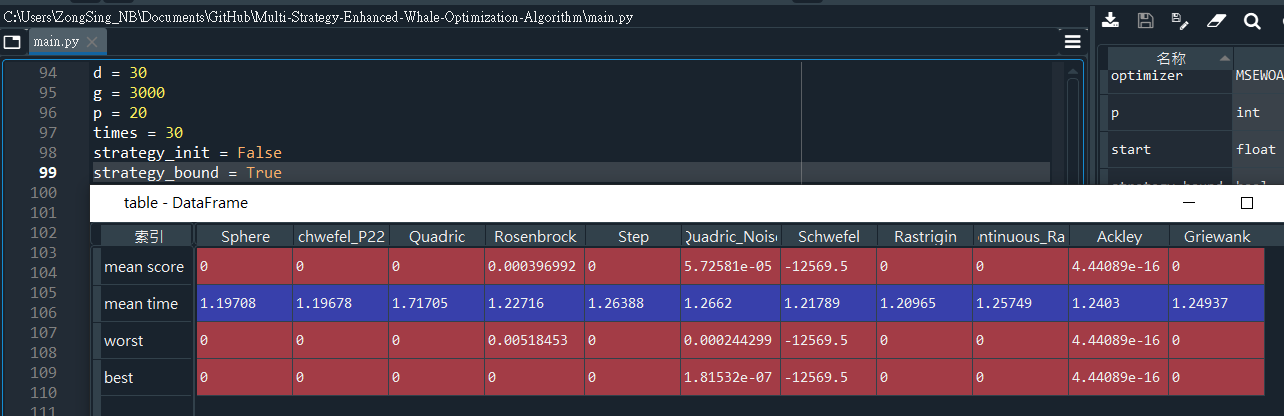
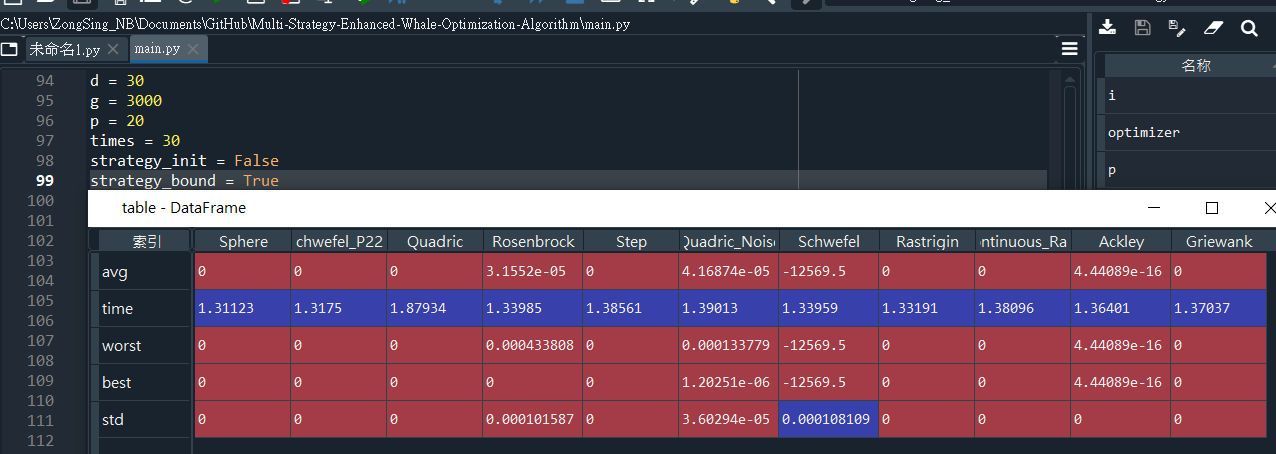
2020.08.20

diff --git a/main.py b/main.py
@@ -97,9 +97,10 @@ p = 20
 times = 30
 strategy_init = False
 strategy_bound = True
-table = np.zeros((4, 11))
+table = np.zeros((5, 11))
 table[2, :] = -np.ones(11)*np.inf
 table[3, :] = np.ones(11)*np.inf
+ALL = np.zeros((times, 11))
 for i in range(times):
     x_max = 100*np.ones(d)
     x_min = -100*np.ones(d)
@@ -112,6 +113,7 @@ for i in range(times):
     if optimizer.gBest_score<table[3, 0]: table[3, 0] = optimizer.gBest_score
     table[0, 0] += optimizer.gBest_score
     table[1, 0] += end - start 
+    ALL[i, 0] = optimizer.gBest_score
 
 
     x_max = 10*np.ones(d)
@@ -125,6 +127,7 @@ for i in range(times):
     if optimizer.gBest_score<table[3, 1]: table[3, 1] = optimizer.gBest_score
     table[0, 1] += optimizer.gBest_score
     table[1, 1] += end - start  
+    ALL[i, 1] = optimizer.gBest_score
 
     
     x_max = 100*np.ones(d)
@@ -138,6 +141,7 @@ for i in range(times):
     if optimizer.gBest_score<table[3, 2]: table[3, 2] = optimizer.gBest_score
     table[0, 2] += optimizer.gBest_score
     table[1, 2] += end - start
+    ALL[i, 2] = optimizer.gBest_score
   
  
     x_max = 10*np.ones(d)
@@ -150,7 +154,8 @@ for i in range(times):
     if optimizer.gBest_score>table[2, 3]: table[2, 3] = optimizer.gBest_score
     if optimizer.gBest_score<table[3, 3]: table[3, 3] = optimizer.gBest_score  
     table[0, 3] += optimizer.gBest_score
-    table[1, 3] += end - start   
+    table[1, 3] += end - start  
+    ALL[i, 3] = optimizer.gBest_score    
 
    
     x_max = 100*np.ones(d)
@@ -164,6 +169,7 @@ for i in range(times):
     if optimizer.gBest_score<table[3, 4]: table[3, 4] = optimizer.gBest_score  
     table[0, 4] += optimizer.gBest_score
     table[1, 4] += end - start
+    ALL[i, 4] = optimizer.gBest_score
   
   
     x_max = 1.28*np.ones(d)
@@ -177,6 +183,7 @@ for i in range(times):
     if optimizer.gBest_score<table[3, 5]: table[3, 5] = optimizer.gBest_score   
     table[0, 5] += optimizer.gBest_score
     table[1, 5] += end - start
+    ALL[i, 5] = optimizer.gBest_score
  
  
     x_max = 500*np.ones(d)
@@ -190,6 +197,7 @@ for i in range(times):
     if optimizer.gBest_score<table[3, 6]: table[3, 6] = optimizer.gBest_score   
     table[0, 6] += optimizer.gBest_score
     table[1, 6] += end - start
+    ALL[i, 6] = optimizer.gBest_score
   
 
     x_max = 5.12*np.ones(d)
@@ -203,6 +211,7 @@ for i in range(times):
     if optimizer.gBest_score<table[3, 7]: table[3, 7] = optimizer.gBest_score   
     table[0, 7] += optimizer.gBest_score
     table[1, 7] += end - start  
+    ALL[i, 7] = optimizer.gBest_score
 
 
     x_max = 5.12*np.ones(d)
@@ -216,6 +225,7 @@ for i in range(times):
     if optimizer.gBest_score<table[3, 8]: table[3, 8] = optimizer.gBest_score  
     table[0, 8] += optimizer.gBest_score
     table[1, 8] += end - start
+    ALL[i, 8] = optimizer.gBest_score
   
  
     x_max = 32*np.ones(d)
@@ -229,6 +239,7 @@ for i in range(times):
     if optimizer.gBest_score<table[3, 9]: table[3, 9] = optimizer.gBest_score  
     table[0, 9] += optimizer.gBest_score
     table[1, 9] += end - start
+    ALL[i, 9] = optimizer.gBest_score
    
  
     x_max = 600*np.ones(d)
@@ -242,12 +253,14 @@ for i in range(times):
     if optimizer.gBest_score<table[3, 10]: table[3, 10] = optimizer.gBest_score  
     table[0, 10] += optimizer.gBest_score
     table[1, 10] += end - start  
+    ALL[i, 10] = optimizer.gBest_score
     
     print(i+1)
     
     
 table[:2, :] = table[:2, :] / times
+table[4, :] = np.std(ALL, axis=0)
 table = pd.DataFrame(table)
 table.columns=['Sphere', 'Schwefel_P222', 'Quadric', 'Rosenbrock', 'Step', 'Quadric_Noise', 'Schwefel', 
                 'Rastrigin', 'Noncontinuous_Rastrigin', 'Ackley', 'Griewank']
-table.index = ['mean score', 'mean time', 'worst', 'best']
+table.index = ['avg', 'time', 'worst', 'best', 'std']
